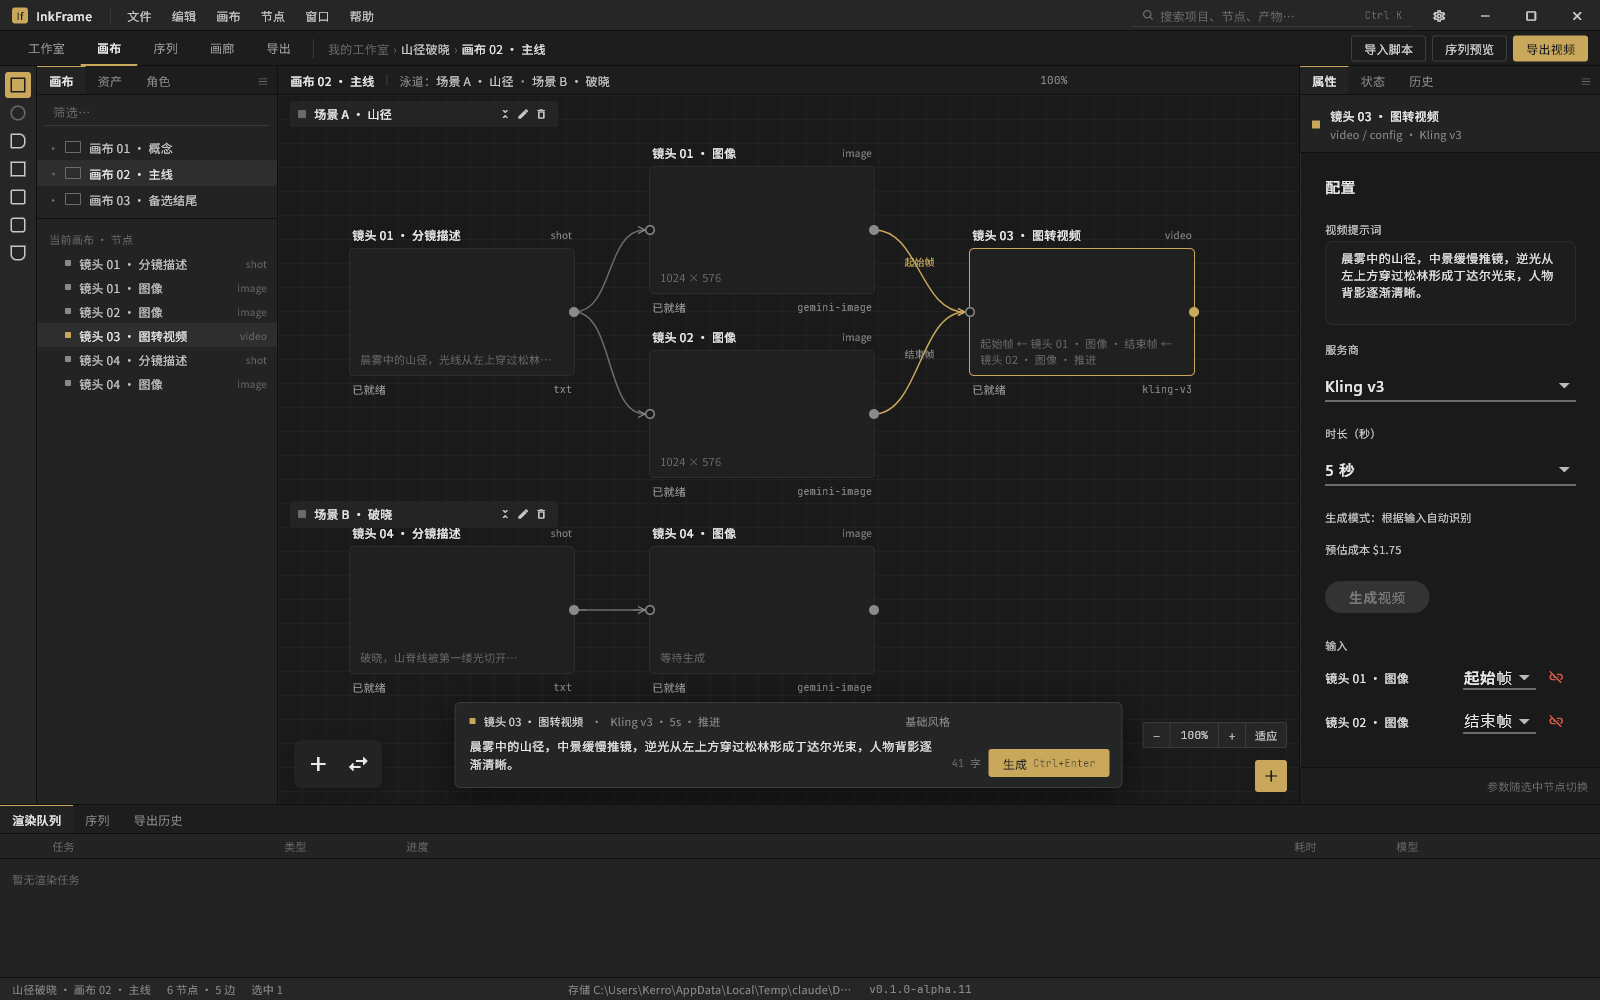
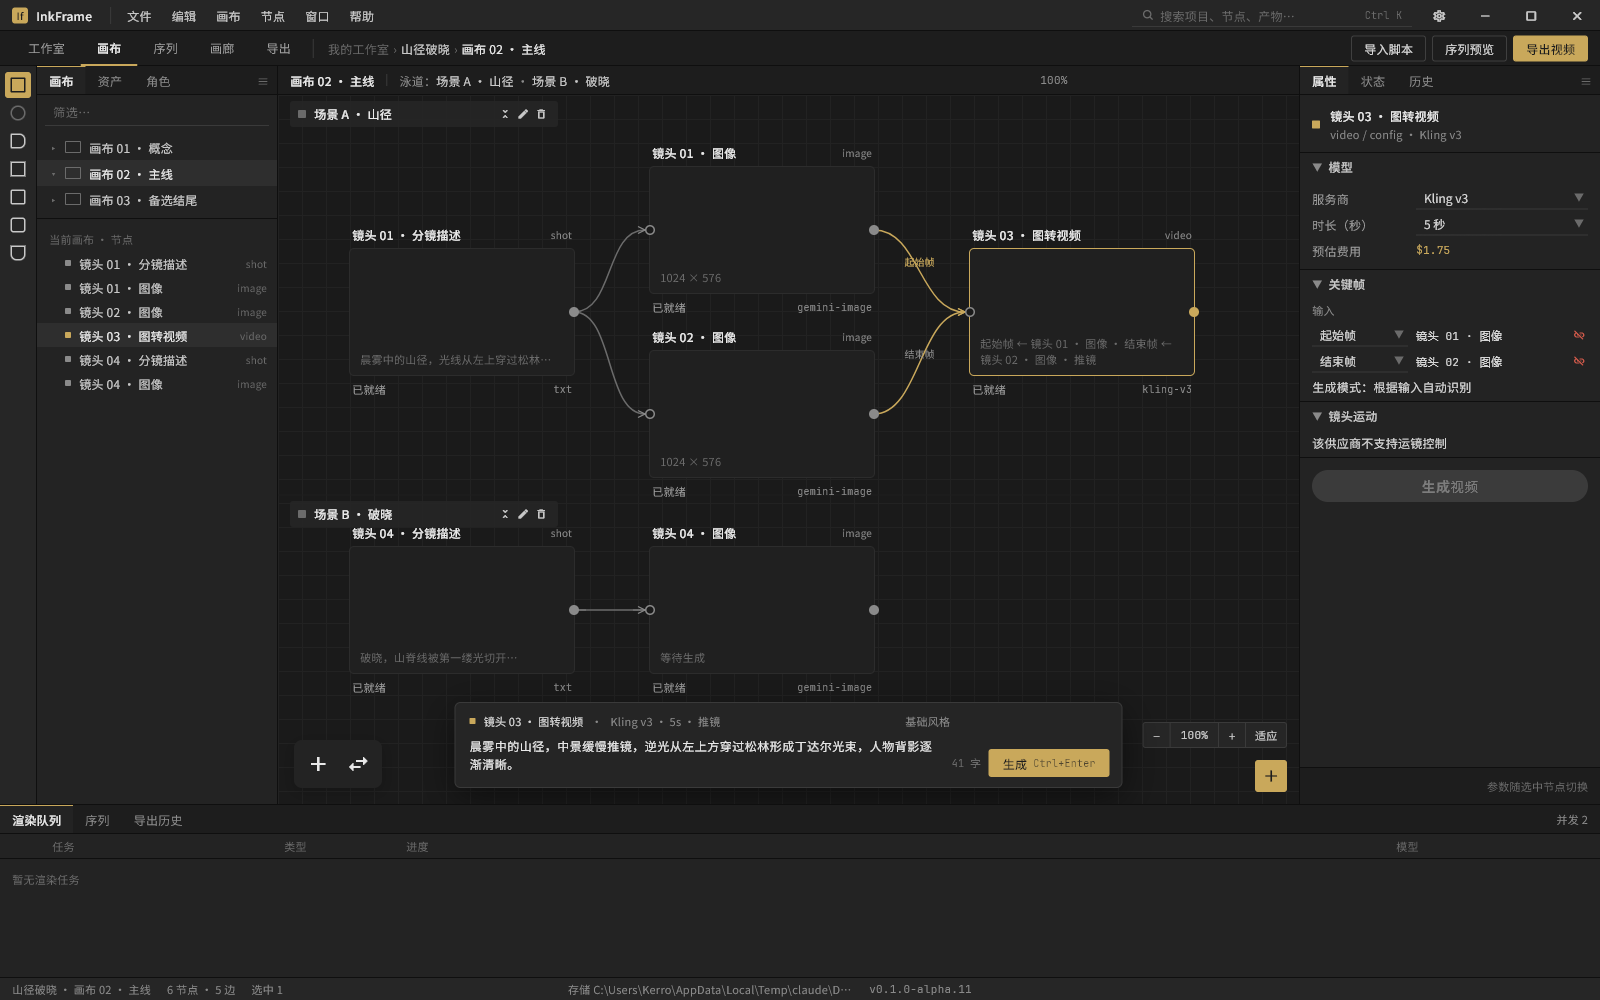
docs(design): S2b 接线后再截一张——5.85% → 5.45%，预期内偏离逐项入 README / BOARD 债
- replica/ 的 wired 两张换成 S2b 后的截图与差异图。
- README 结果表加 S2b 行；BOARD 记两条债：镜头运动四字段无数据模型、模型名 / fps 不在 provider 元数据。

diff --git a/docs/BOARD.md b/docs/BOARD.md
@@ -208,3 +208,5 @@
 | `ShellState.setProject` / `ShellNavigator.setProject` 是**有测试的死 API**：`lib/` 下只有定义，全部消费点都在测试里（spec §5.1 列了它，但没有任何生产路径调用）。切项目今天走 `openGallery(ProjectRef)` 或 `openCanvas(id, withProject:)` 两条具名迁移，`setProject` 这条"只换项目、不动标签"的语义没有对应的 UI 动作 | 🅿 | shell-tab-navigation 最终评审（R85–R90 轮）发现。裁决：不在本 PR 删——它是 7 个具名迁移之一、有表驱动单测钉死语义，删它要连带动 `shell_state_test.dart`；等真出现"只换项目不换标签"的交互（如项目切换器）时再决定是接上还是退役 |
 | `ink_shell_tab_bar.dart` 的 chip 是 `GestureDetector` + `Semantics`，**不可键盘聚焦、不可回车激活**——只能鼠标点。与仓库既有 `InkGhostButton` 同款，不是本 PR 的退步 | 🅿 | shell-tab-navigation 最终评审（R85–R90 轮）发现。标签条是全应用最高频交互，做键盘导航时这里是第一站；正解是把 chip 换成 `InkWell`/`FocusableActionDetector`（带 focus ring token），并连带把 `InkGhostButton` 一起收口，避免只修一处留下两套可达性语义 |
 | 导出的**门控**仍从节点数据摸 projectId,与已迁走的**动作**错位:`command_actions.dart:76-77` 与 `tab_availability.dart:26` 都是 `videoNodes.isNotEmpty && videoNodes.first.projectId != null`,而 R86 已把两处**动作**改成 `ShellState.project?.id`。错位方向因此被**反转**而非消除——外壳里项目上下文完好、但"原序第一个"可导出 video 的 `project_id` 为空时,`canExport` 为假 ⇒ ⌘K 里根本不出「Export video」、导出标签按钮禁用,**而此时导出本来完全能跑**,用户看到的是"功能莫名其妙没了"且无任何提示 | 🅿 | shell-tab-navigation 最终复评发现(非本分支退步:spec §8.2 明令"可用性判据原样搬运不重写",该判据是从已删除的 `canvas_top_chrome.dart` 逐字搬来)。正解=`videoNodes.isNotEmpty && shell.project != null`,或直接去掉 projectId 那一项。**刻意不在合并前动**:改门控会牵动 `shell_tabs_empty_state_test.dart` 整批搬运来的禁用判据用例,属范围蔓延。**第 5/6 步做完整序列/交付面板时,门控判据必须改成读项目上下文(`ShellState.project`),不能沿用节点数据——否则新面板会原样继承这个错位**(设计侧 2026-09-22 指出) |
+| Workspace v2 稿的检查器「镜头运动」组有四个字段没有数据模型：**景别 / 机位角度 / 运镜幅度 / 焦段**（稿上是四个下拉/滑杆）。S2b 接线时按「无后端不画」规则未画，检查器只画了运镜方式（`camera`，全量枚举）与片长 | 🅿 | 视觉重做 B 路径 S2b（#235）用户拍板：先记债。要画就得给 shot / video 的 `type_config` 加键 + 各 provider 决定是否透传（多数 provider 没有这些参数，很可能只是 prompt 拼接），属于数据模型决策，不在视觉 PR 里做 |
+| 稿的检查器「模型」组显示**模型名**（如 kling-v3 下的具体模型）与**fps**；`ProviderCapabilities` 只有 providerId / 分辨率 / 时长档，没有模型名与帧率元数据。S2b 按「provider 元数据有才只读显示，否则省略」拍板，两项都省略 | 🅿 | 同上（#235）。补齐要在 `ProviderCapabilities` 加 `modelName` / `fps` 字段并让 15 个实现体填值；渲染队列「模型」列眼下显示的也是 providerId |

diff --git a/docs/design/handoff-2026-09/README.md b/docs/design/handoff-2026-09/README.md
@@ -456,7 +456,8 @@ powershell -File scripts/replica_diff.ps1 -A ref.png -B flutter.png -Out diff.pn
 | 屏 | 差异像素 | 状态 |
 |---|---|---|
 | Workspace v2（静态复刻） | 0.97%（全部为字形抗锯齿） | 用户验收通过（2026-09-22） |
-| Workspace v2（接线后，稿数据播种） | 5.85% | 差异 = 检查器分组未改（S2b）、渲染队列无 job、泳道标题栏（V6 稿）、数据长度（见 PR #235） |
+| Workspace v2（S2 接线后，稿数据播种） | 5.85% | 差异 = 检查器分组未改、渲染队列无 job、泳道标题栏（Lanes 稿）、引用名带类型后缀（见 PR #235） |
+| Workspace v2（S2b 检查器三组 / 队列 / 引用名改完） | 5.45% | 预期内偏离：景别 / 机位角度 / 运镜幅度 / 焦段 / 模型名 / fps 无数据模型（记 BOARD 债）、队列无 job、稿上运行态文字（自动保存 / 结果数 / 缩略图）。逐项见 PR #235 |
 
 ---
 
